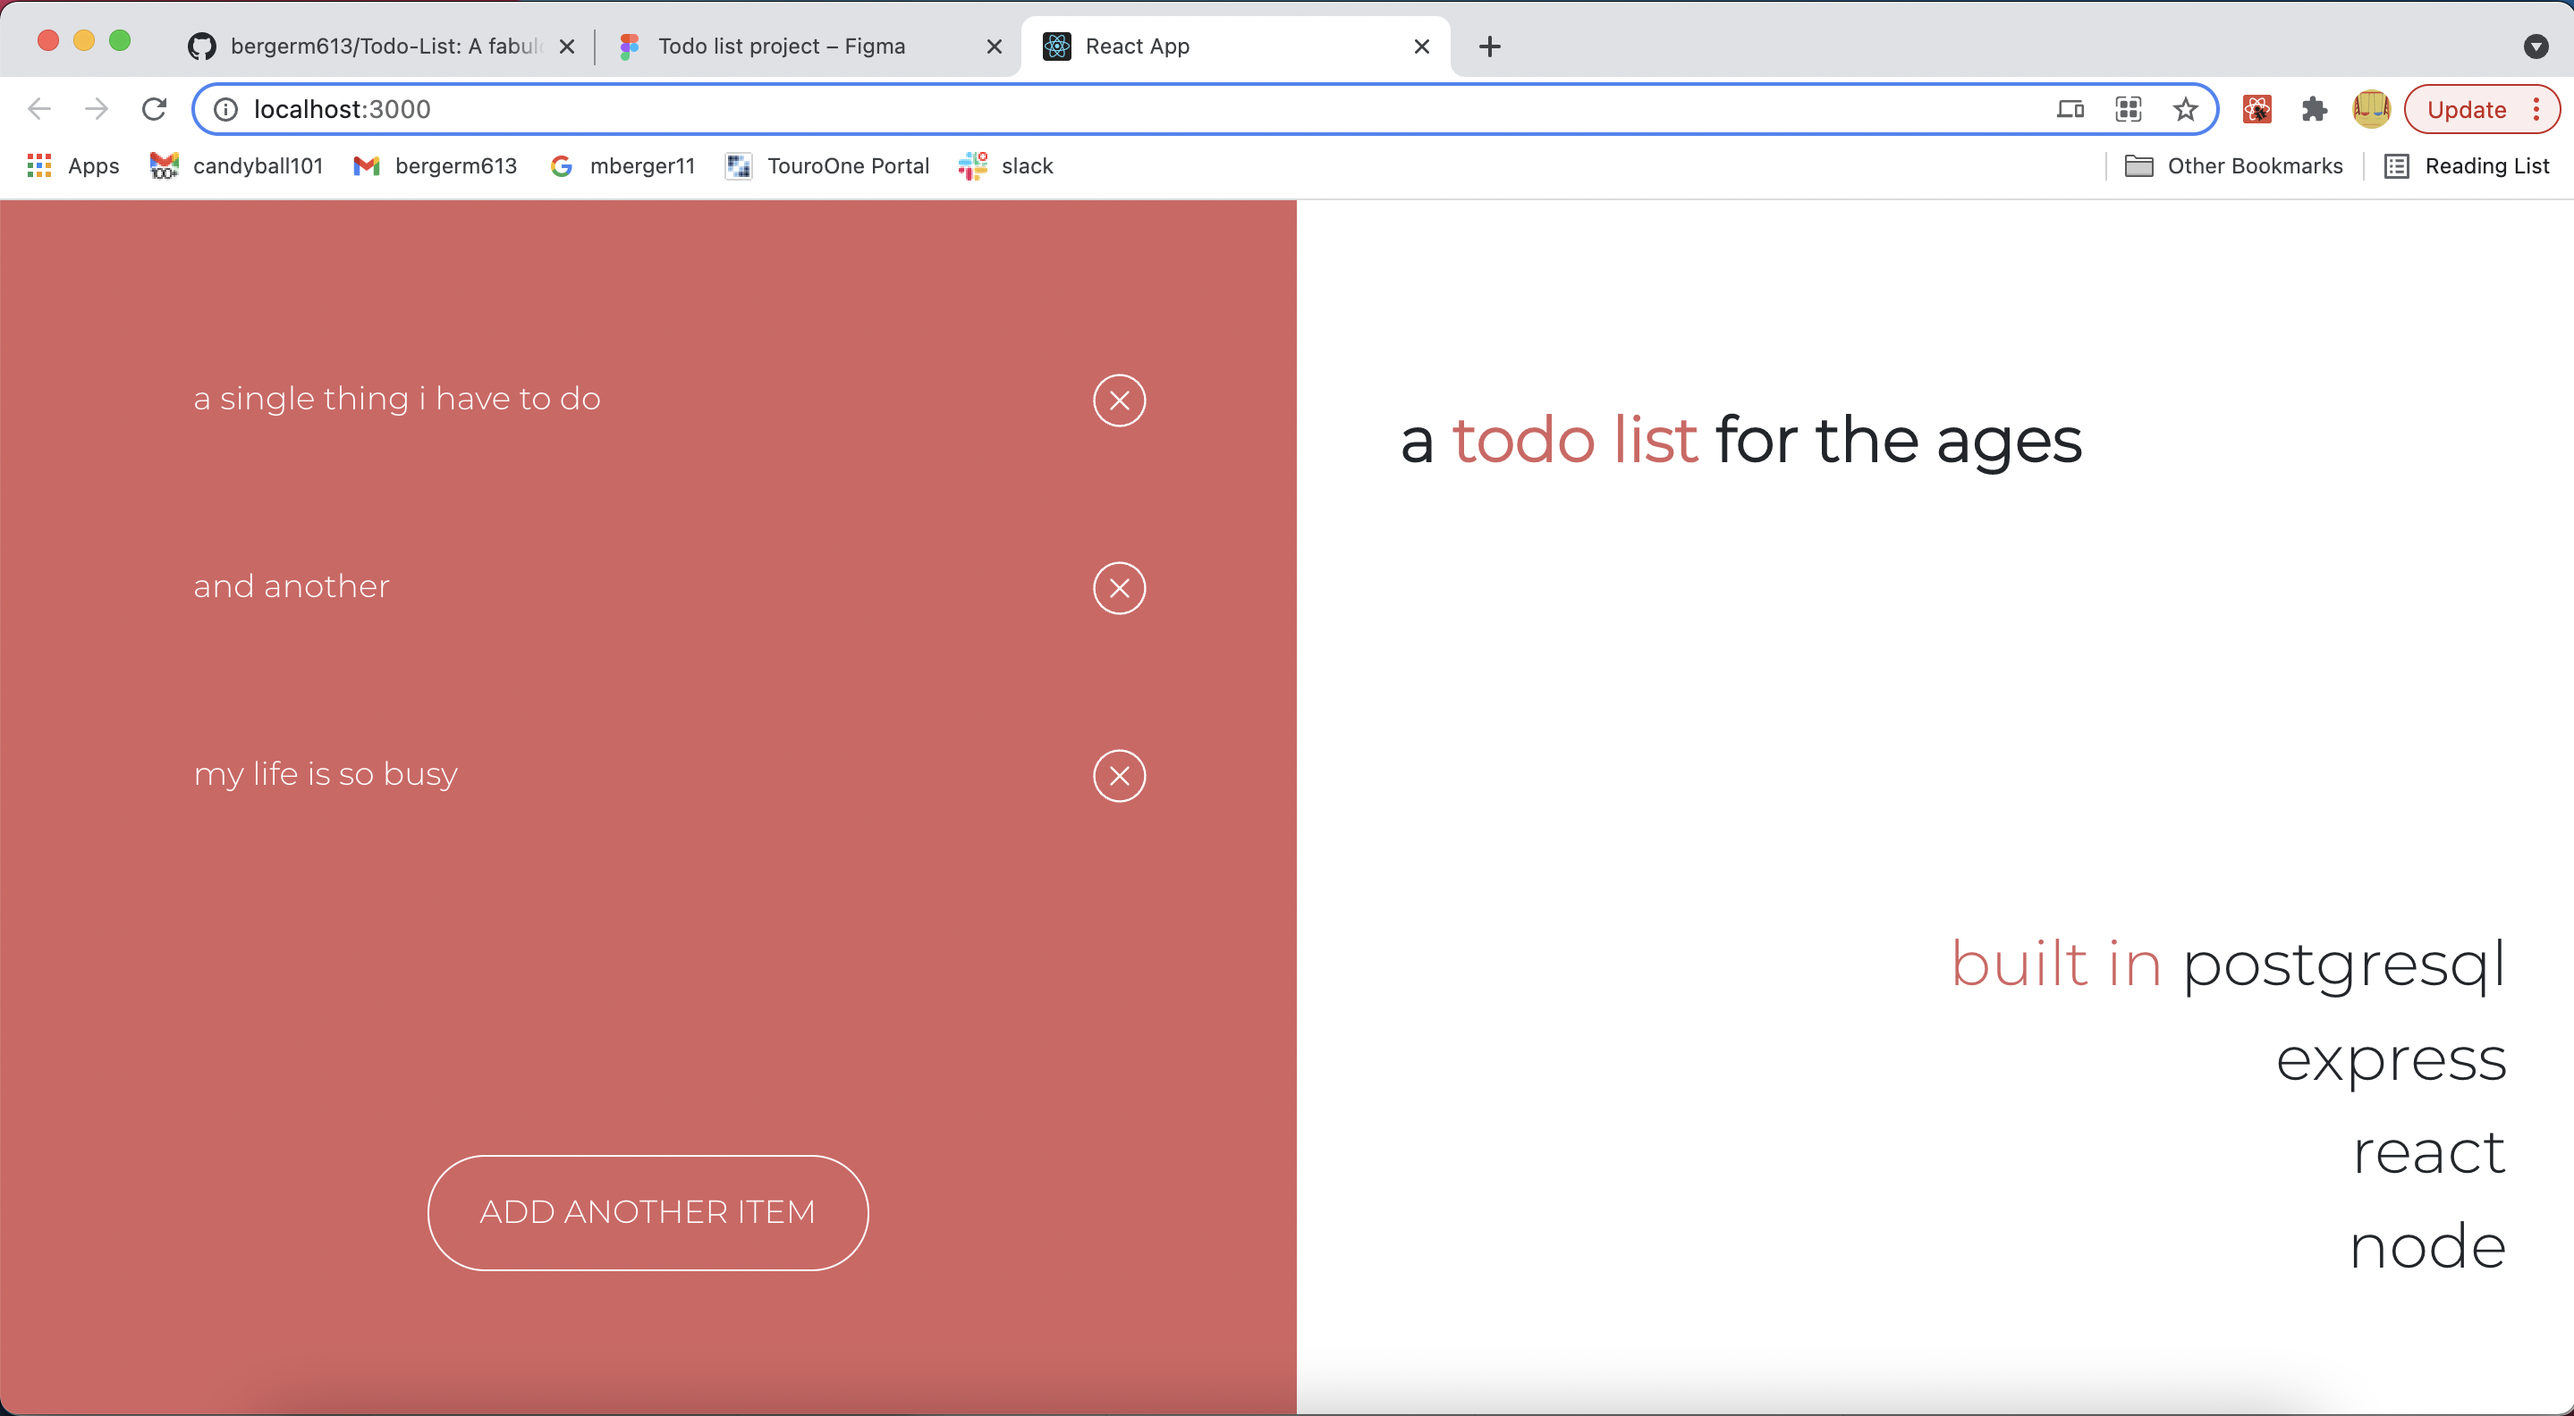
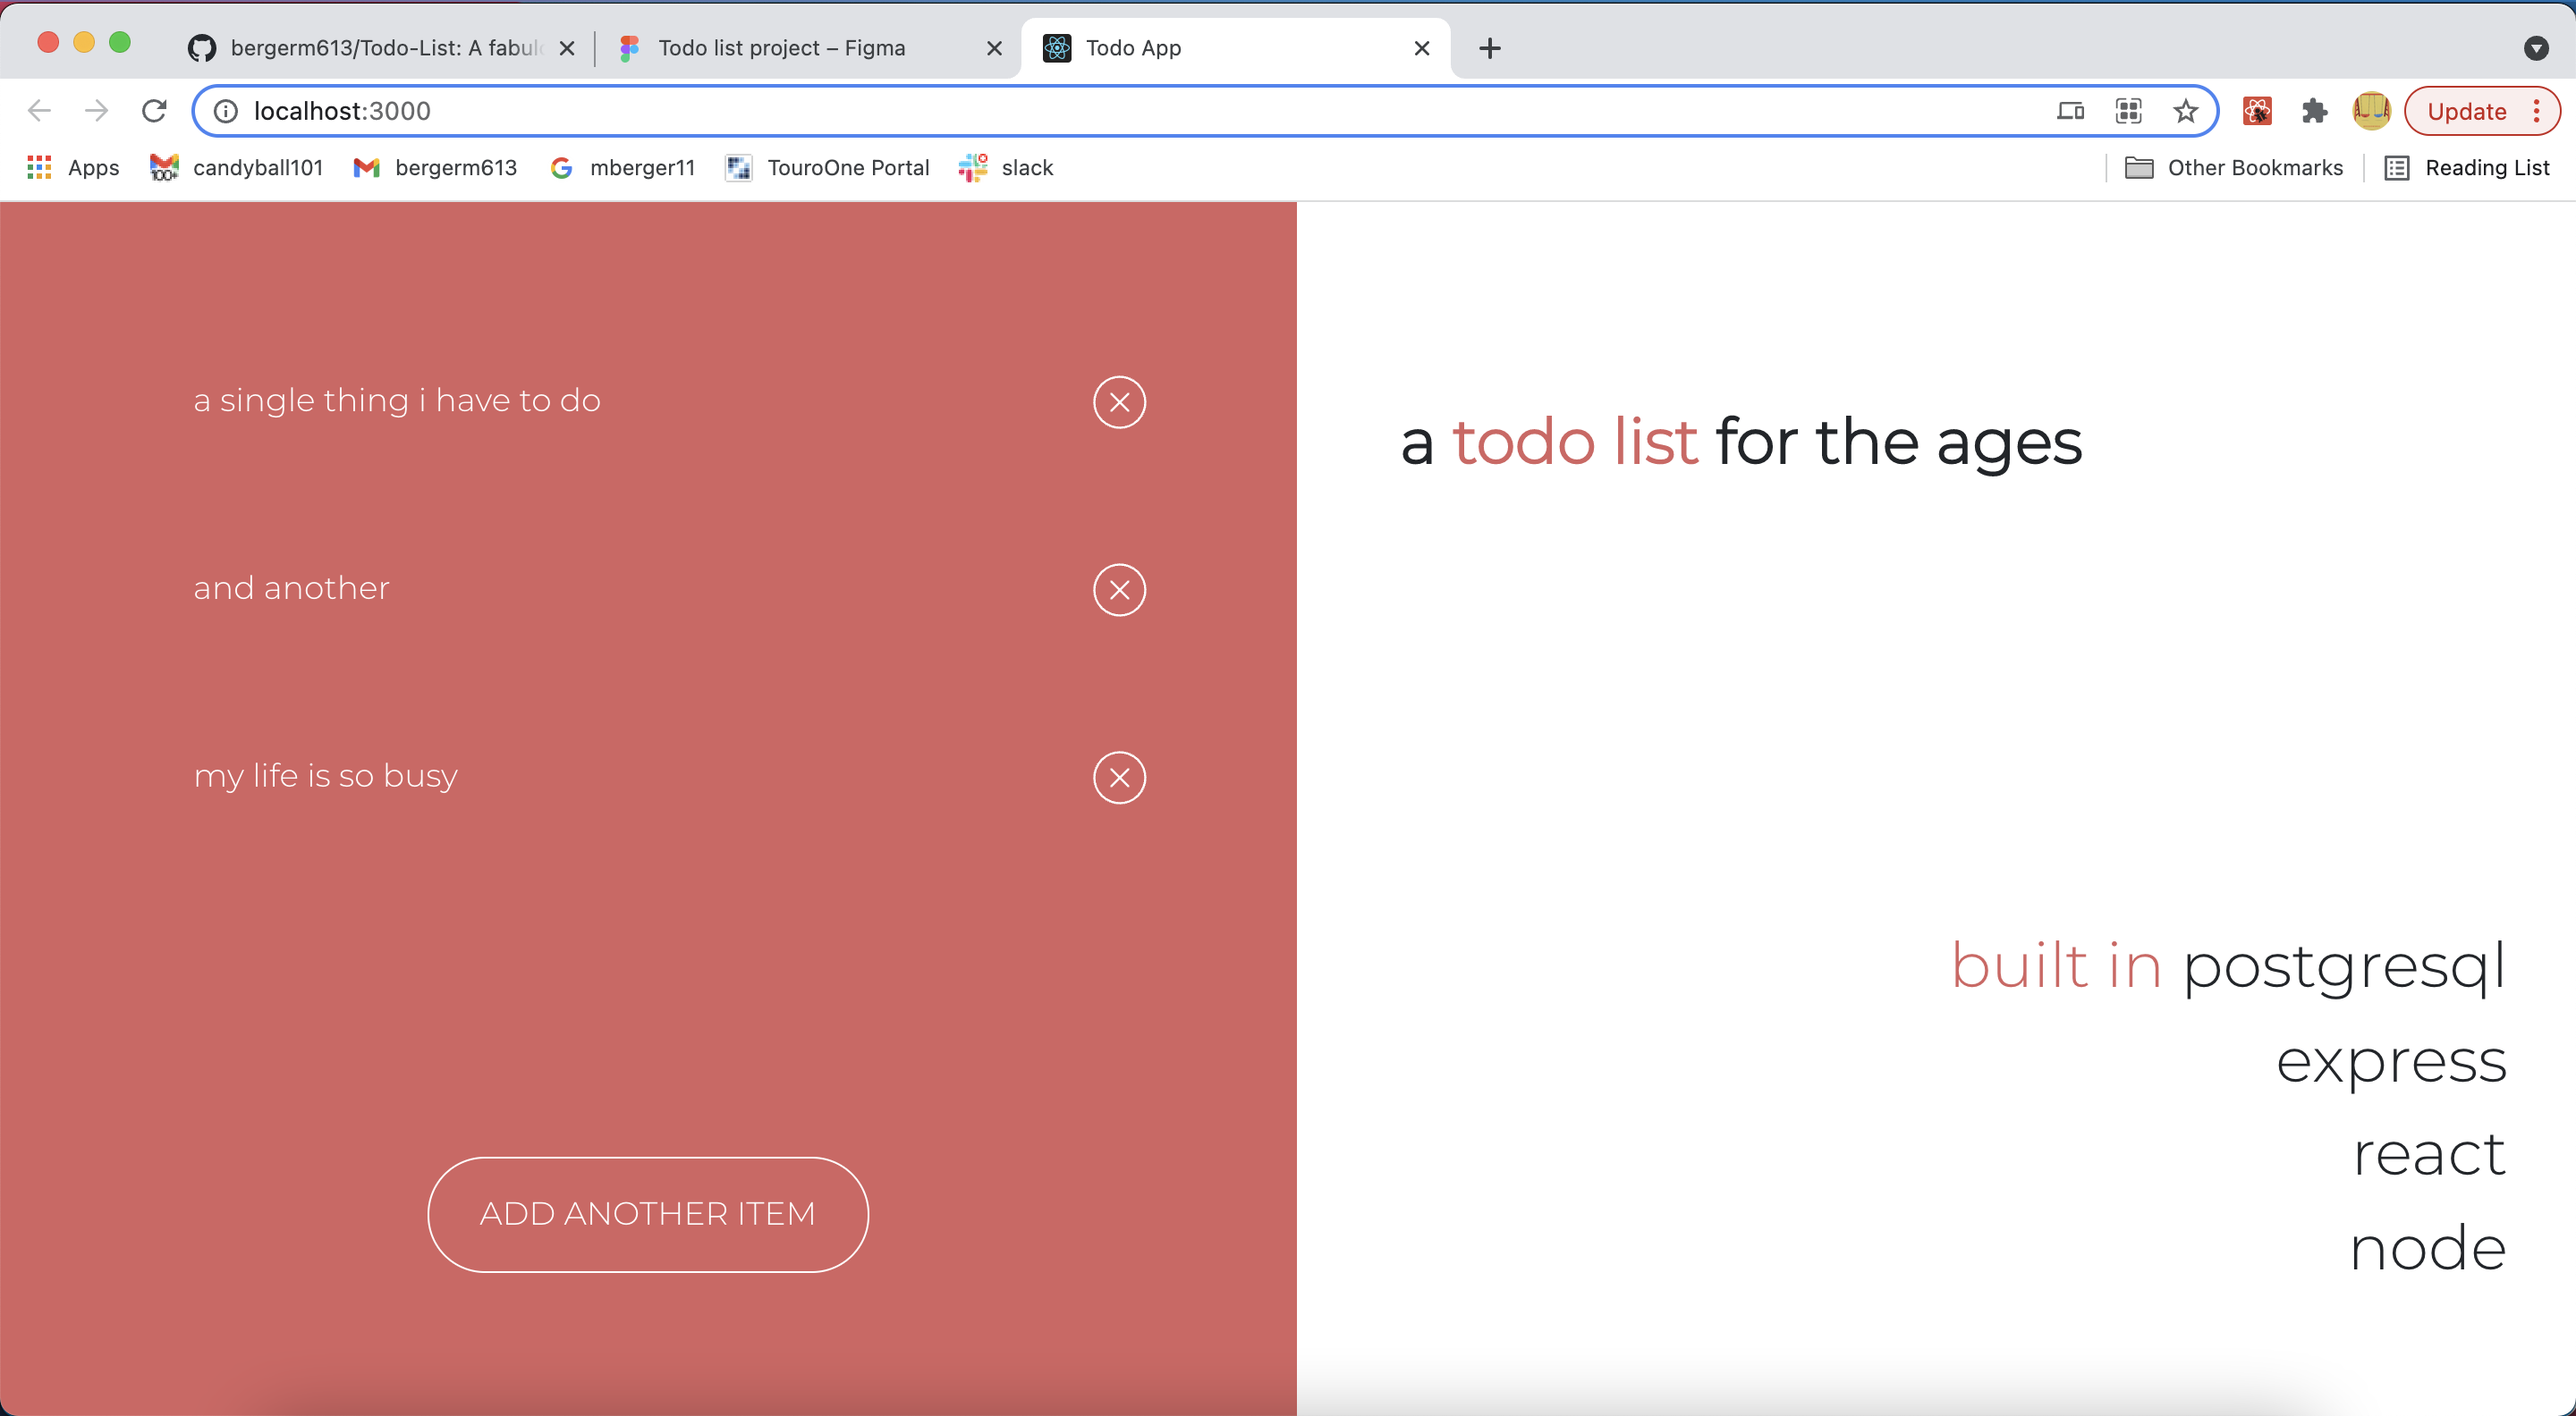
fix title

diff --git a/client/public/index.html b/client/public/index.html
@@ -33,7 +33,7 @@
       work correctly both with client-side routing and a non-root public URL.
       Learn how to configure a non-root public URL by running `npm run build`.
     -->
-    <title>React App</title>
+    <title>Todo App</title>
   </head>
   <body>
     <noscript>You need to enable JavaScript to run this app.</noscript>
